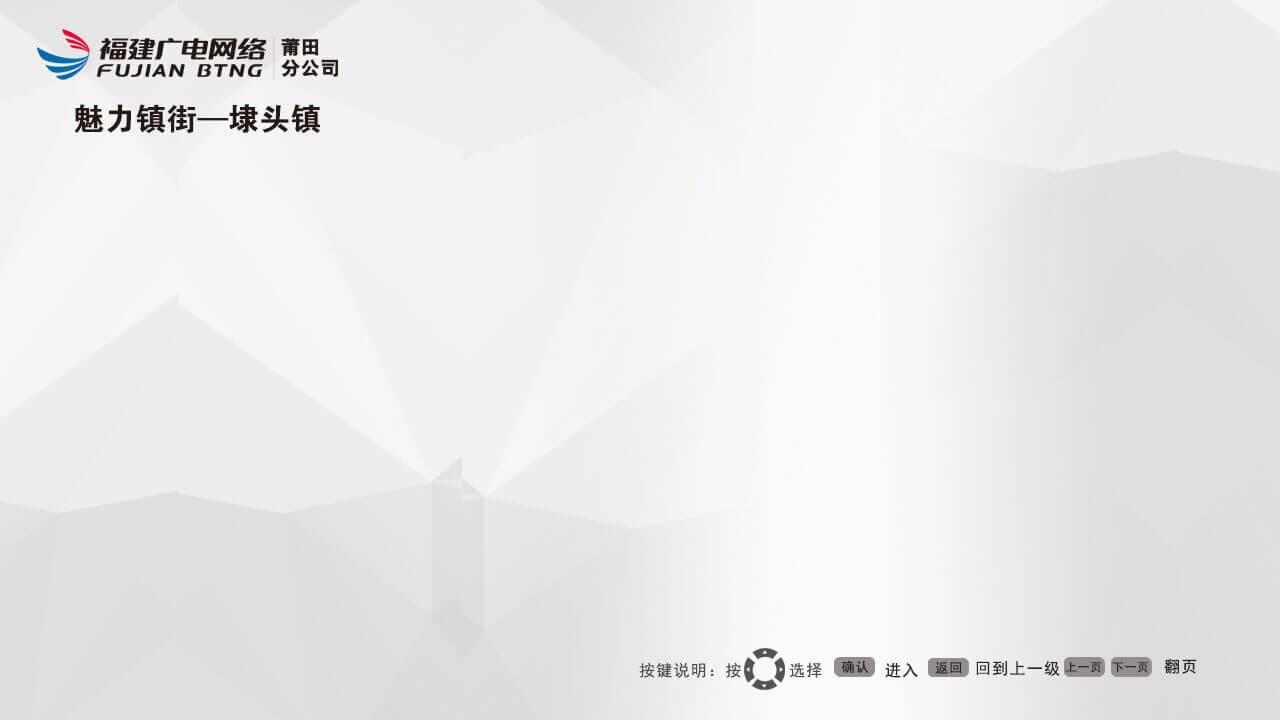
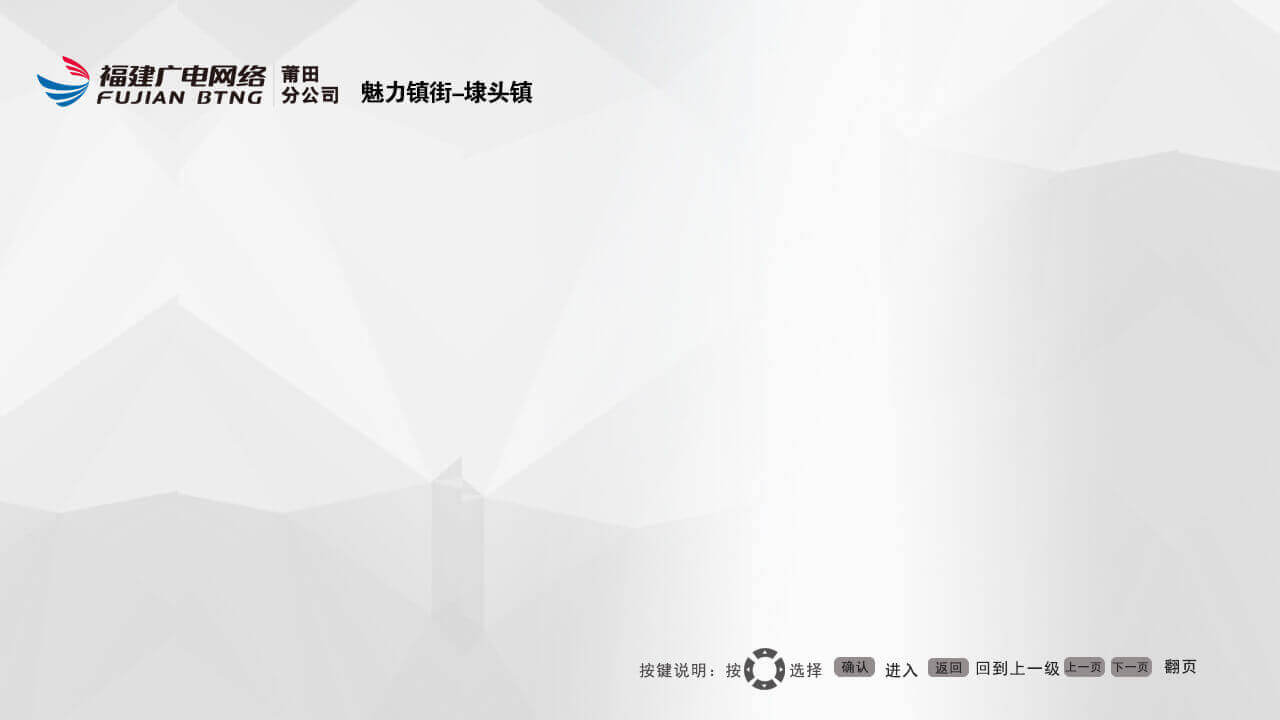
调整页面布局

Changed region(s): [[0.0312, 0.0306, 0.4375, 0.1833]]

diff --git a/view/daitou.html b/view/daitou.html
@@ -6,12 +6,12 @@
     <title>埭头镇</title>
 </head>
 <body bgcolor="transparent">
-<div class="index-bg">
+<div class="daitou">
     <div id="bar" class="bar"></div>
     <div id="swiper" class="swiper"></div>
     <div id="notices_board" class="notices_board">
-        <div id="notices_board_bar"></div>
-        <div id="notices_board_content"></div>
+        <div id="notices_board_bar" class="notices_board_bar"></div>
+        <div id="notices_board_content" class="notices_board_content"></div>
         <div class="list-item-more"></div>
     </div>
     <div id="cursor"></div>
@@ -40,28 +40,28 @@
                 top: 0
             },
             {
-                title: '智慧党建',
-                swiperResourceId: 1155,
-                listResourceId: 1156,
+                title: '乡村旅游',
+                swiperResourceId: 1157,
+                listResourceId: 1158,
                 url: 'news.html',
                 top: 50
             },
             {
-                title: '政务公开',
-                swiperResourceId: 1157,
-                listResourceId: 1158,
+                title: '智慧党建',
+                swiperResourceId: 1155,
+                listResourceId: 1156,
                 url: 'beian.html',
                 top: 100
             },
             {
-                title: '扫黑除恶',
+                title: '平安创建',
                 swiperResourceId: 1159,
                 listResourceId: 1160,
                 url: 'apartment.html',
                 top: 150
             },
             {
-                title: '工作动态',
+                title: '扫黑除恶',
                 swiperResourceId: 1161,
                 listResourceId: 1162,
                 url: 'smart.html',
@@ -75,7 +75,7 @@
                 top: 250
             },
             {
-                title: '平安创建',
+                title: '工作动态',
                 swiperResourceId: 1165,
                 listResourceId: 1166,
                 //url: 'http://10.215.0.39/fujiandangjianNew/index2.html',
@@ -83,7 +83,7 @@
                 top: 300
             },
             {
-                title: '三大攻坚战',
+                title: '宣传视频',
                 swiperResourceId: 1167,
                 listResourceId: 1168,
                 url: 'putian.html',
@@ -102,10 +102,10 @@
     function SwiperComponent(resId) {
         SwiperModule.call(this);
 
-        this.swiperTop = 150;
+        this.swiperTop = 125;
         this.swiperLeft = 178;
-        this.swiperWidth = 824;
-        this.swiperHeight = 467;
+        this.swiperWidth = 828;
+        this.swiperHeight = 492;
         this.resourceId = resId;
     }
 
@@ -115,20 +115,20 @@
         // 属性
         this.focusPos = 0;
         this.boardLeft = 1015;
-        this.boardTop = 152;
-        this.boardWidth = 240;
-        this.boardHeight = 465;
-        this.noticesBoardBarWidth = 240;
-        this.noticesBoardBarHeight = 47;
-        this.itemLeft = 1030;
-        this.itemTop = 198;
-        this.itemWidth = 218;
-        this.itemHeight = 42;
-        this.itemMoreLeft = 1118;
-        this.itemMoreTop = 570;
+        this.boardTop = 125;
+        this.boardWidth = 206;
+        this.boardHeight = 492;
+        this.noticesBoardBarWidth = 206;
+        this.noticesBoardBarHeight = 40;
+        this.itemLeft = 1018;
+        this.itemTop = 168;
+        this.itemWidth = 200;
+        this.itemHeight = 30;
+        this.itemMoreLeft = 1080;
+        this.itemMoreTop = 565;
         this.itemMoreWidth = 132;
-        this.itemMoreHeight = 32;
-        this.listItemNum = 8;
+        this.itemMoreHeight = 30;
+        this.listItemNum = 10;
         this.resourceId = resId;                    //  默认使用BAR第一个元素的resourceId
 
         // 方法
@@ -197,7 +197,7 @@
                     break;
                 case 5:         // 栏目
                     this.cursor.bar.moveY(direction, true);
-//                    console.log(this.cursor.bar.barItemArray[this.cursor.bar.focusPos].menuResourceId);
+//                    console.log(this.cursor.bar.barItemArray[this.cursor.bar.focusPos].swiperResourceId);
 //                    console.log(this.cursor.bar.barItemArray[this.cursor.bar.focusPos].listResourceId);
                     this.cursor.swiper.resourceId = this.cursor.bar.barItemArray[this.cursor.bar.focusPos].swiperResourceId;
                     this.cursor.swiper.album = [];                  //  清空海报图集

diff --git a/module/list.module.js b/module/list.module.js
@@ -25,23 +25,27 @@ function ListModule() {
     this.itemMoreWidth = 158;
     this.itemMoreHeight = 42;
 
-    this.listItemTop = 50;
-    this.interval = 42;
+    this.listItemTop = 20;
+    this.interval = 39;
     this.marqueeCount = 13;
 
     this.noticesBoardBarWidth = 380;
     this.noticesBoardBarHeight = 40;
     this.noticesBoardBarBgSrc = 'url(../images/list/list-item-bar.png) no-repeat';
-    this.noticesBoardBarText = '最新动态';
+    this.noticesBoardBarText = '';
     this.noticesBoardBarColor = '#FFF';
     this.noticesBoardBarFontSize = '19pt';
+
+    this.noticesBoardContentTop = 24;
+    this.noticesBoardContentLeft = 0;
 
     this.resourceId = '';
 
     this.init = function (callback) {
         var that = this,
             noticesBoard,
-            noticesBoardBar;
+            noticesBoardBar,
+            noticesBoardContent;
 
         noticesBoard = document.getElementById('notices_board');
         noticesBoard.style.left = this.boardLeft + 'px';
@@ -58,6 +62,10 @@ function ListModule() {
         noticesBoardBar.style.textAlign = 'center';
         noticesBoardBar.innerHTML = this.noticesBoardBarText;
 
+        noticesBoardContent = document.getElementById('notices_board_content');
+        noticesBoardContent.style.left = this.noticesBoardContentLeft + 'px';
+        noticesBoardContent.style.top = this.noticesBoardContentTop + 'px';
+
         if (cmsConfig.environment === 'DEBUG') {
             var test = [
                 {assetid: 611, title: '城厢区是福建省莆田市辖区，亦称...', img: '', flag: 1, id: 111},
@@ -66,6 +74,9 @@ function ListModule() {
                 {assetid: 611, title: '城厢区是福建省莆田市辖区，亦称...', img: '1', flag: 1, id: 111},
                 {assetid: 611, title: '涵江区位于福建省莆田市东部沿海...', flag: 0, id: 111},
                 {assetid: 611, title: '秀屿区位于福建东南沿海中部，与...', flag: 0, id: 111},
+                {assetid: 611, title: '湄洲湾北岸经济开发区是经国家发... 副本 2', img: '1', flag: 0, id: 111},
+                {assetid: 611, title: '湄洲湾北岸经济开发区是经国家发... 副本 2', img: '1', flag: 0, id: 111},
+                {assetid: 611, title: '湄洲湾北岸经济开发区是经国家发... 副本 2', img: '1', flag: 0, id: 111},
                 {assetid: 611, title: '湄洲湾北岸经济开发区是经国家发... 副本 2', img: '1', flag: 0, id: 111},
                 {assetid: 611, title: '湄洲湾北岸经济开发区是经国家发... 副本 2', img: '1', flag: 0, id: 111},
                 {assetid: 611, title: '湄洲湾北岸经济开发区是经国家发... 副本 2', img: '1', flag: 0, id: 111}
@@ -111,14 +122,14 @@ function ListModule() {
         for (j = 0, length = array.length; (j < length) && (j < this.listItemNum); j++) {
             newListItem = document.createElement('div');
             newListItem.className = 'list_item';
-            newListItem.style.width = (this.itemWidth - 10) + 'px';
+            newListItem.style.width = (this.itemWidth - 5) + 'px';
             newListItem.style.top = this.listItemTop + (j * this.interval) + 'px';
             newListItemText = document.createElement('div');
             newListItemText.id = 'list_item_text_' + j;
             newListItemText.className = 'list_item_text';
             newListItemText.innerHTML = array[j].title;
             newListItemText.style.color = '#000000';
-            newListItemText.style.width = (this.itemWidth - 20) + 'px';
+            newListItemText.style.width = (this.itemWidth - 5) + 'px';
             newListItem.appendChild(newListItemText);
             boardElement.appendChild(newListItem);
 

diff --git a/view/dongqiao.html b/view/dongqiao.html
@@ -10,8 +10,8 @@
     <div id="bar" class="bar"></div>
     <div id="swiper" class="swiper"></div>
     <div id="notices_board" class="notices_board">
-        <div id="notices_board_bar"></div>
-        <div id="notices_board_content"></div>
+        <div id="notices_board_bar" class="notices_board_bar"></div>
+        <div id="notices_board_content" class="notices_board_content"></div>
         <div class="list-item-more"></div>
     </div>
     <div id="cursor"></div>
@@ -109,10 +109,10 @@
     function SwiperComponent(resId) {
         SwiperModule.call(this);
 
-        this.swiperTop = 150;
+        this.swiperTop = 125;
         this.swiperLeft = 178;
-        this.swiperWidth = 824;
-        this.swiperHeight = 467;
+        this.swiperWidth = 828;
+        this.swiperHeight = 492;
         this.resourceId = resId;
     }
 
@@ -122,20 +122,20 @@
         // 属性
         this.focusPos = 0;
         this.boardLeft = 1015;
-        this.boardTop = 152;
-        this.boardWidth = 240;
-        this.boardHeight = 465;
-        this.noticesBoardBarWidth = 240;
-        this.noticesBoardBarHeight = 47;
-        this.itemLeft = 1030;
-        this.itemTop = 198;
-        this.itemWidth = 218;
-        this.itemHeight = 42;
-        this.itemMoreLeft = 1118;
-        this.itemMoreTop = 570;
+        this.boardTop = 125;
+        this.boardWidth = 206;
+        this.boardHeight = 492;
+        this.noticesBoardBarWidth = 206;
+        this.noticesBoardBarHeight = 40;
+        this.itemLeft = 1018;
+        this.itemTop = 168;
+        this.itemWidth = 200;
+        this.itemHeight = 30;
+        this.itemMoreLeft = 1080;
+        this.itemMoreTop = 565;
         this.itemMoreWidth = 132;
-        this.itemMoreHeight = 32;
-        this.listItemNum = 8;
+        this.itemMoreHeight = 30;
+        this.listItemNum = 10;
         this.resourceId = resId;                    //  默认使用BAR第一个元素的resourceId
 
         // 方法

diff --git a/view/nanridao.html b/view/nanridao.html
@@ -10,8 +10,8 @@
     <div id="bar" class="bar"></div>
     <div id="swiper" class="swiper"></div>
     <div id="notices_board" class="notices_board">
-        <div id="notices_board_bar"></div>
-        <div id="notices_board_content"></div>
+        <div id="notices_board_bar" class="notices_board_bar"></div>
+        <div id="notices_board_content" class="notices_board_content"></div>
         <div class="list-item-more"></div>
     </div>
     <div id="cursor"></div>
@@ -108,10 +108,10 @@
     function SwiperComponent(resId) {
         SwiperModule.call(this);
 
-        this.swiperTop = 150;
+        this.swiperTop = 125;
         this.swiperLeft = 178;
-        this.swiperWidth = 824;
-        this.swiperHeight = 467;
+        this.swiperWidth = 828;
+        this.swiperHeight = 492;
         this.resourceId = resId;
     }
 
@@ -121,20 +121,20 @@
         // 属性
         this.focusPos = 0;
         this.boardLeft = 1015;
-        this.boardTop = 152;
-        this.boardWidth = 240;
-        this.boardHeight = 465;
-        this.noticesBoardBarWidth = 240;
-        this.noticesBoardBarHeight = 47;
-        this.itemLeft = 1030;
-        this.itemTop = 198;
-        this.itemWidth = 218;
-        this.itemHeight = 42;
-        this.itemMoreLeft = 1118;
-        this.itemMoreTop = 570;
+        this.boardTop = 125;
+        this.boardWidth = 206;
+        this.boardHeight = 492;
+        this.noticesBoardBarWidth = 206;
+        this.noticesBoardBarHeight = 40;
+        this.itemLeft = 1018;
+        this.itemTop = 168;
+        this.itemWidth = 200;
+        this.itemHeight = 30;
+        this.itemMoreLeft = 1080;
+        this.itemMoreTop = 565;
         this.itemMoreWidth = 132;
-        this.itemMoreHeight = 32;
-        this.listItemNum = 8;
+        this.itemMoreHeight = 30;
+        this.listItemNum = 10;
         this.resourceId = resId;                    //  默认使用BAR第一个元素的resourceId
 
         // 方法

diff --git a/style/common.css b/style/common.css
@@ -10,7 +10,7 @@
     background-size: 100%;
 }
 
-.index-bg {
+.daitou {
     position: absolute;
     left: 0;
     top: 0;
@@ -51,10 +51,10 @@
 /* ----  栏目  ---- */
 .bar {
     position: absolute;
-    top: 148px;
+    top: 125px;
     left: 56px;
     width: 115px;
-    height: 468px;
+    height: 492px;
     background: url(../images/bar/bar-bg.png) no-repeat;
 }
 
@@ -112,19 +112,31 @@
     background: url(../images/list/bg-list-item.png);
 }
 
+.notices_board_bar {
+    position: absolute;
+    z-index: 999;
+}
+
+.notices_board_content {
+    position: absolute;
+    width: 206px;
+    height: 464px;
+    background: url(../images/list/bg_content.jpg);
+}
+
 .list_item {
     position: absolute;
-    left: 10px;
+    left: 3px;
     height: 30px;
 }
 
 .list_item_text {
     position: absolute;
-    left: 10px;
+    left: 3px;
     top: 0;
     height: 29px;
     line-height: 30px;
-    font: 25px "Microsoft YaHei";
+    font: 21px "Microsoft YaHei";
     overflow: hidden;
 }
 
@@ -134,7 +146,7 @@
     width: 126px;
     height: 24px;
     right: 5px;
-    bottom: 20px;
+    bottom: 25px;
 }
 
 /* ----  按键  ---- */

diff --git a/cms/cms.config.js b/cms/cms.config.js
@@ -7,7 +7,7 @@ var cmsConfig = {
     imgUrl: 'http://10.184.255.10:8080/manage/',
     backUrl: '',
     index_back_url: '',
-    //environment: 'DEBUG',
+    // environment: 'DEBUG',
     environment: 'PRODUCT',
 
     /**
